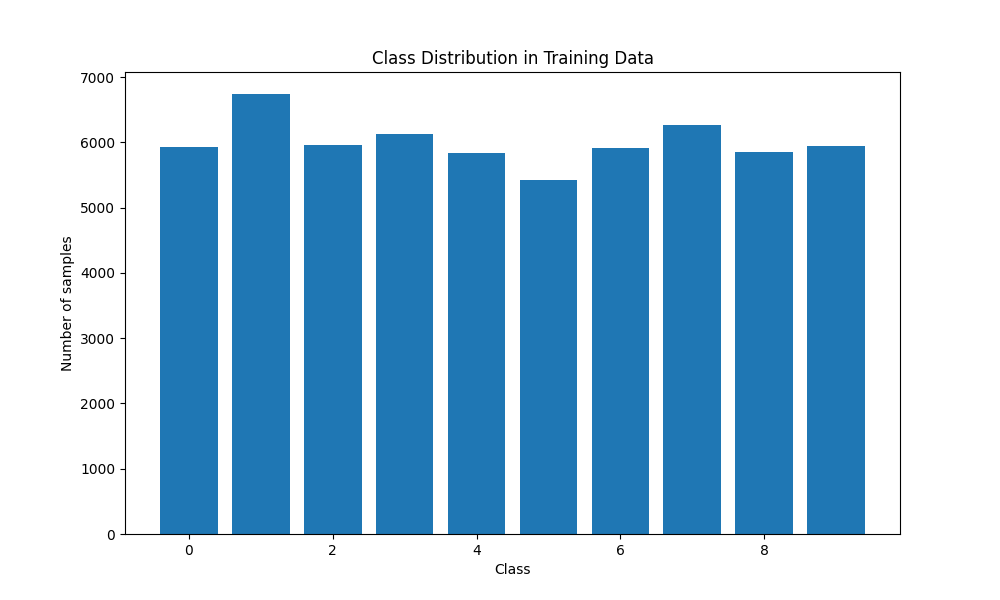
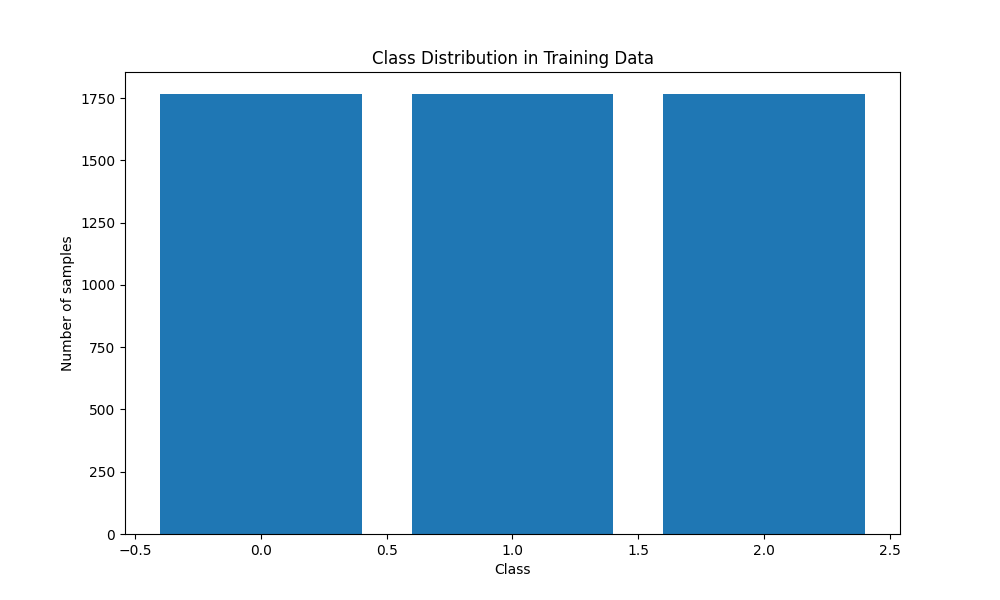
PCA update

diff --git a/PCA.py b/PCA.py
@@ -29,101 +29,143 @@ from sklearn.decomposition import PCA
 from sklearn.preprocessing import StandardScaler
 import matplotlib.pyplot as plt
 import seaborn as sns
-from ucimlrepo import fetch_ucirepo 
+import preprocessing
 
-#from ucimlrepo:
-# fetch dataset 
-predict_students = fetch_ucirepo(id=697) 
-  
-# data (as pandas dataframes) 
-X = predict_students.data.features 
-y = predict_students.data.targets 
-y_values = pd.factorize(y.iloc[:,0].values)[0]
+def pca_manual(variance):
 
-# metadata 
-#print(predict_students.metadata)  
-# variable information 
-#print(predict_students.variables)
+    # fetch dataset 
+    X, y, _, _ = preprocessing.main()
+    target_column = np.argmax(y, axis=1)
 
-print('Inputs Dataframe shape   :', X.shape)
+    # Map numeric labels to class names
+    class_names = ['dropout', 'enrolled', 'graduate']
+    target_column_names = [class_names[label] for label in target_column]
 
-#1. Standardize the Data: Center the data by subtracting the mean.
-X_mean = np.mean(X, axis=0)  # compute mean for each feature
-X_std = np.std(X, axis=0)    # compute standard deviation for each feature
-X_standardized = (X - X_mean) / X_std  # standardization
+    #1. Standardize the Data: Center the data by subtracting the mean.
+    X_mean = np.mean(X, axis=0)  # compute mean for each feature
+    X_std = np.std(X, axis=0)    # compute standard deviation for each feature
+    X_standardized = (X - X_mean) / X_std  # standardization
 
-#2. Measure Feature Relationships: Compute the covariance matrix
-cov_matrx = np.cov(X_standardized.T) # using transpose to compute columns(features)
-sns.heatmap(cov_matrx)
-plt.title("Standardized Feature Covariance Matrix")
-plt.show()
+    #2. Measure Feature Relationships: Compute the covariance matrix
+    cov_matrx = np.cov(X_standardized.T) # using transpose to compute columns(features)
+    sns.heatmap(cov_matrx)
+    plt.title("Standardized Feature Covariance Matrix")
+    plt.savefig('Covariance Matrix')
+    plt.close()
 
-#3. Find Principal Components: Compute Eigenvalues and Eigenvectors
-eigenvalues, eigenvectors = np.linalg.eig(cov_matrx) # praise be numpy 
-print('Eigenvalues:\n', eigenvalues)
-print('Eigenvalues Shape:', eigenvalues.shape)
-print('Eigenvector Shape:', eigenvectors.shape)
+    #3. Find Principal Components: Compute Eigenvalues and Eigenvectors
+    eigenvalues, eigenvectors = np.linalg.eig(cov_matrx) # praise be numpy 
+    print('Eigenvalues:\n', eigenvalues)
+    print('Eigenvalues Shape:', eigenvalues.shape)
+    print('Eigenvector Shape:', eigenvectors.shape)
 
-#4. Sort Principal Components: Find direction with max variance and its orthogonal direction
-sorted_indices = np.argsort(eigenvalues)[::-1] #sort eigenvalues in descending order to find max eigenvalue
-eigenvalues = eigenvalues[sorted_indices]
-eigenvectors = eigenvectors[:, sorted_indices]
+    #4. Sort Principal Components: Find direction with max variance and its orthogonal direction
+    sorted_indices = np.argsort(eigenvalues)[::-1] #sort eigenvalues in descending order to find max eigenvalue
+    eigenvalues = eigenvalues[sorted_indices]
+    eigenvectors = eigenvectors[:, sorted_indices]
 
-#4. Sort Principal Components: Find direction with max variance and its orthogonal direction
-explained_variance = np.cumsum(eigenvalues) / np.sum(eigenvalues)
+    #4. Sort Principal Components: Find direction with max variance and its orthogonal direction
+    explained_variance = np.cumsum(eigenvalues) / np.sum(eigenvalues)
 
-# Plot cumulative explained variance
-plt.figure(figsize=(8, 5))
-plt.plot(range(1, len(explained_variance) + 1), explained_variance, marker='o', linestyle='--')
-plt.xlabel('Number of Principal Components')
-plt.ylabel('Cumulative Explained Variance')
-plt.title('Explained Variance vs. Number of Principal Components')
-plt.grid(True)
-plt.show()
+    # Plot cumulative explained variance
+    plt.figure(figsize=(8, 5))
+    plt.plot(range(1, len(explained_variance) + 1), explained_variance, marker='o', linestyle='--')
+    plt.xlabel('Number of Principal Components')
+    plt.ylabel('Cumulative Explained Variance')
+    plt.title('Explained Variance vs. Number of Principal Components')
+    plt.grid(True)
+    plt.savefig('Explained Variance')
+    plt.close()
 
-# Find minimum k for 95% variance
-d = np.argmax(explained_variance>= 0.5) + 1  
-print(f"Number of principal components (d*): {d}")
+    # Find minimum k for 95% variance
+    d = np.argmax(explained_variance>= variance) + 1  
+    print(f"Number of principal components (d*): {d}")
 
-#5. Project Data: Transform the original data into the new basis using top-k eigenvectors.
-W = eigenvectors[:, :d]  # select first k eigenvectors
-X_pca = X_standardized @ W  # oroject data onto new subspace
+    #5. Project Data: Transform the original data into the new basis using top-k eigenvectors.
+    W = eigenvectors[:, :d]  # select first k eigenvectors
+    pca = X_standardized @ W  # project data onto new subspace
+    print(f"Applied PCA. Reduced dimensions from {X[1]} to {pca.shape[1]}")
 
-# Plot the PCA components
-plt.figure(figsize=(8, 6))
-plt.scatter(X_pca.iloc[:, 0], X_pca.iloc[:, 1], c=y_values, cmap="plasma", alpha=0.7)
-plt.xlabel('Principal Component 1')
-plt.ylabel('Principal Component 2')
-plt.title('PCA Projection (Manual Algorithm)')
-plt.colorbar(label='Target Labels, 0=Dropout, 1=Graduate, 2=Enrolled')
-plt.legend()
-plt.show()
+    # Convert to dataframe 
+    column_names = [f'PC{i+1}' for i in range(d)]
+    pca_df = pd.DataFrame(pca, columns=column_names)
+    pca_df['Outcome'] = target_column_names  # Use class names instead of numeric labels
+    
+    # Generate graph of tsne output
+    display_results(pca_df, d, variance)
 
-# Final Step: Print Shape of Reduced Data
-print(f"Shape of reduced dataset: {X_pca.shape}")
+    # Final Step: Print Shape of Reduced Data
+    print(f"Shape of reduced dataset: {pca.shape}")
 
 #Alternative, scikit-learn has its own PCA implementation:
+def pca_sklearn(n_components):
 
-# Standardize the data with sklearn StandardScalar
-scaler = StandardScaler()
-X_scaled = scaler.fit_transform(X)
+    # Get preprocessed data
+    train_data, train_label, _, _ = preprocessing.main()
+    target_column = np.argmax(train_label, axis=1)
 
-# Apply sklearn's PCA
-pca = PCA(n_components=2)  # reduce to 2 components
-X_pca = pca.fit_transform(X_scaled)
+    # Map numeric labels to class names
+    class_names = ['dropout', 'enrolled', 'graduate']
+    target_column_names = [class_names[label] for label in target_column]
+    '''
+        pca = PCA(n_components=0.95)  # Keep 95% of variance
+        train_data_pca = pca.fit_transform(train_data)
+        test_data_pca = pca.transform(test_data)
+        
+        print(f"Applied PCA. Reduced dimensions from {train_data.shape[1]} to {train_data_pca.shape[1]}")
+        return train_data_pca, train_label, test_data_pca, test_label
+    '''
 
-# Convert to dataframe 
-X_pca_df = pd.DataFrame(X_pca, columns=['PC1', 'PC2'])
+    # Apply sklearn's PCA
+    pca = PCA(n_components)  # reduce to 2 components
+    train_pca = pca.fit_transform(train_data)
+    print(f"Applied PCA. Reduced dimensions from {train_data.shape[1]} to {train_pca.shape[1]}")
 
-# Plot the PCA components
-plt.figure(figsize=(8, 6))
-plt.scatter(X_pca[:, 0], X_pca[:, 1], c=y_values, cmap="plasma", alpha=0.7)
-plt.xlabel('Principal Component 1')
-plt.ylabel('Principal Component 2')
-plt.title('PCA Projection (Scikit-Learn Module)')
-plt.colorbar(label='Target Labels: 0=Dropout, 1=Graduate, 2=Enrolled')
-plt.legend()
-plt.show()
+    # Convert to dataframe
+    column_names = [f'PC{i+1}' for i in range(n_components)]
+    pca_df = pd.DataFrame(train_pca, columns=column_names)
+    pca_df['Outcome'] = target_column_names  # Use class names instead of numeric labels
+    
+    # Generate graph of tsne output
+    display_results(pca_df, n_components, 'N/A')
 
-# Print explained variance ratio
-print("Explained Variance Ratio:", pca.explained_variance_ratio_)
+    # Print explained variance ratio
+    print("Explained Variance Ratio:", pca.explained_variance_ratio_)
+
+def display_results(pca_df, num_components, variance):
+
+    title = f'PCA Visualization\nNumber of Principle Components={num_components}, Variance={variance}' 
+    filename = f'PCA num_components={num_components}'
+
+    custom_palette = {
+        'dropout': 'red',
+        'graduate': 'green',
+        'enrolled': 'blue'
+    }
+
+    # Plot t-SNE results
+    plt.figure(figsize=(10, 8))
+    sns.scatterplot(
+        x='PC1', y='PC2',
+        hue=pca_df['Outcome'],  # Color-code by class names
+        palette=custom_palette,
+        data=pca_df,
+        legend='full',
+        alpha=0.7
+    )
+    plt.title(title)
+    plt.xlabel('PC1')
+    plt.ylabel('PC2')
+    plt.legend(title='Outcome')
+    plt.savefig(filename)
+    plt.close()
+    #plt.show()
+
+
+if __name__ == "__main__":
+    pca_sklearn(2)
+    pca_sklearn(4)
+    pca_sklearn(10)
+    pca_manual(.95)
+    pca_manual(.75)
+    pca_manual(.50)

diff --git a/preprocessing.py b/preprocessing.py
@@ -4,11 +4,10 @@ import pandas as pd
 from sklearn.preprocessing import LabelEncoder, StandardScaler
 from sklearn.model_selection import train_test_split
 from imblearn.over_sampling import SMOTE
-from ucimlrepo import fetch_ucirepo 
 
 def load_data(test_data, test_label, train_data, train_label):
     # Load the dataset
-    data = fetch_ucirepo(id=697) 
+    data = pd.read_csv('dataset.csv')
     print(f"Dataset shape: {data.shape}")
     
     # Handle missing values
@@ -146,7 +145,7 @@ def additional_preprocessing(train_data, train_label, test_data, test_label):
         test_data = np.column_stack((test_data, new_feature_test.reshape(-1, 1)))
         
         print(f"Added interaction feature. New data shape: {train_data.shape}")
-    
+    '''
     # Perform Principal Component Analysis for dimensionality reduction (optional)
     from sklearn.decomposition import PCA
     
@@ -157,7 +156,7 @@ def additional_preprocessing(train_data, train_label, test_data, test_label):
         
         print(f"Applied PCA. Reduced dimensions from {train_data.shape[1]} to {train_data_pca.shape[1]}")
         return train_data_pca, train_label, test_data_pca, test_label
-    
+    '''
     return train_data, train_label, test_data, test_label
 
 
@@ -205,10 +204,10 @@ def main():
     # Choose which dataset to use (uncomment one option)
     
     # Option 1: Load and preprocess student dropout data
-    # train_data, train_label, test_data, test_label = load_data(test_data, test_label, train_data, train_label)
+    train_data, train_label, test_data, test_label = load_data(test_data, test_label, train_data, train_label)
     
     # Option 2: Load and preprocess MNIST data
-    train_data, train_label, test_data, test_label = load_mnist_data(test_data, test_label, train_data, train_label)
+    #train_data, train_label, test_data, test_label = load_mnist_data(test_data, test_label, train_data, train_label)
     
     # Visualize the data
     visualize_data(train_data, train_label, test_data, test_label)
